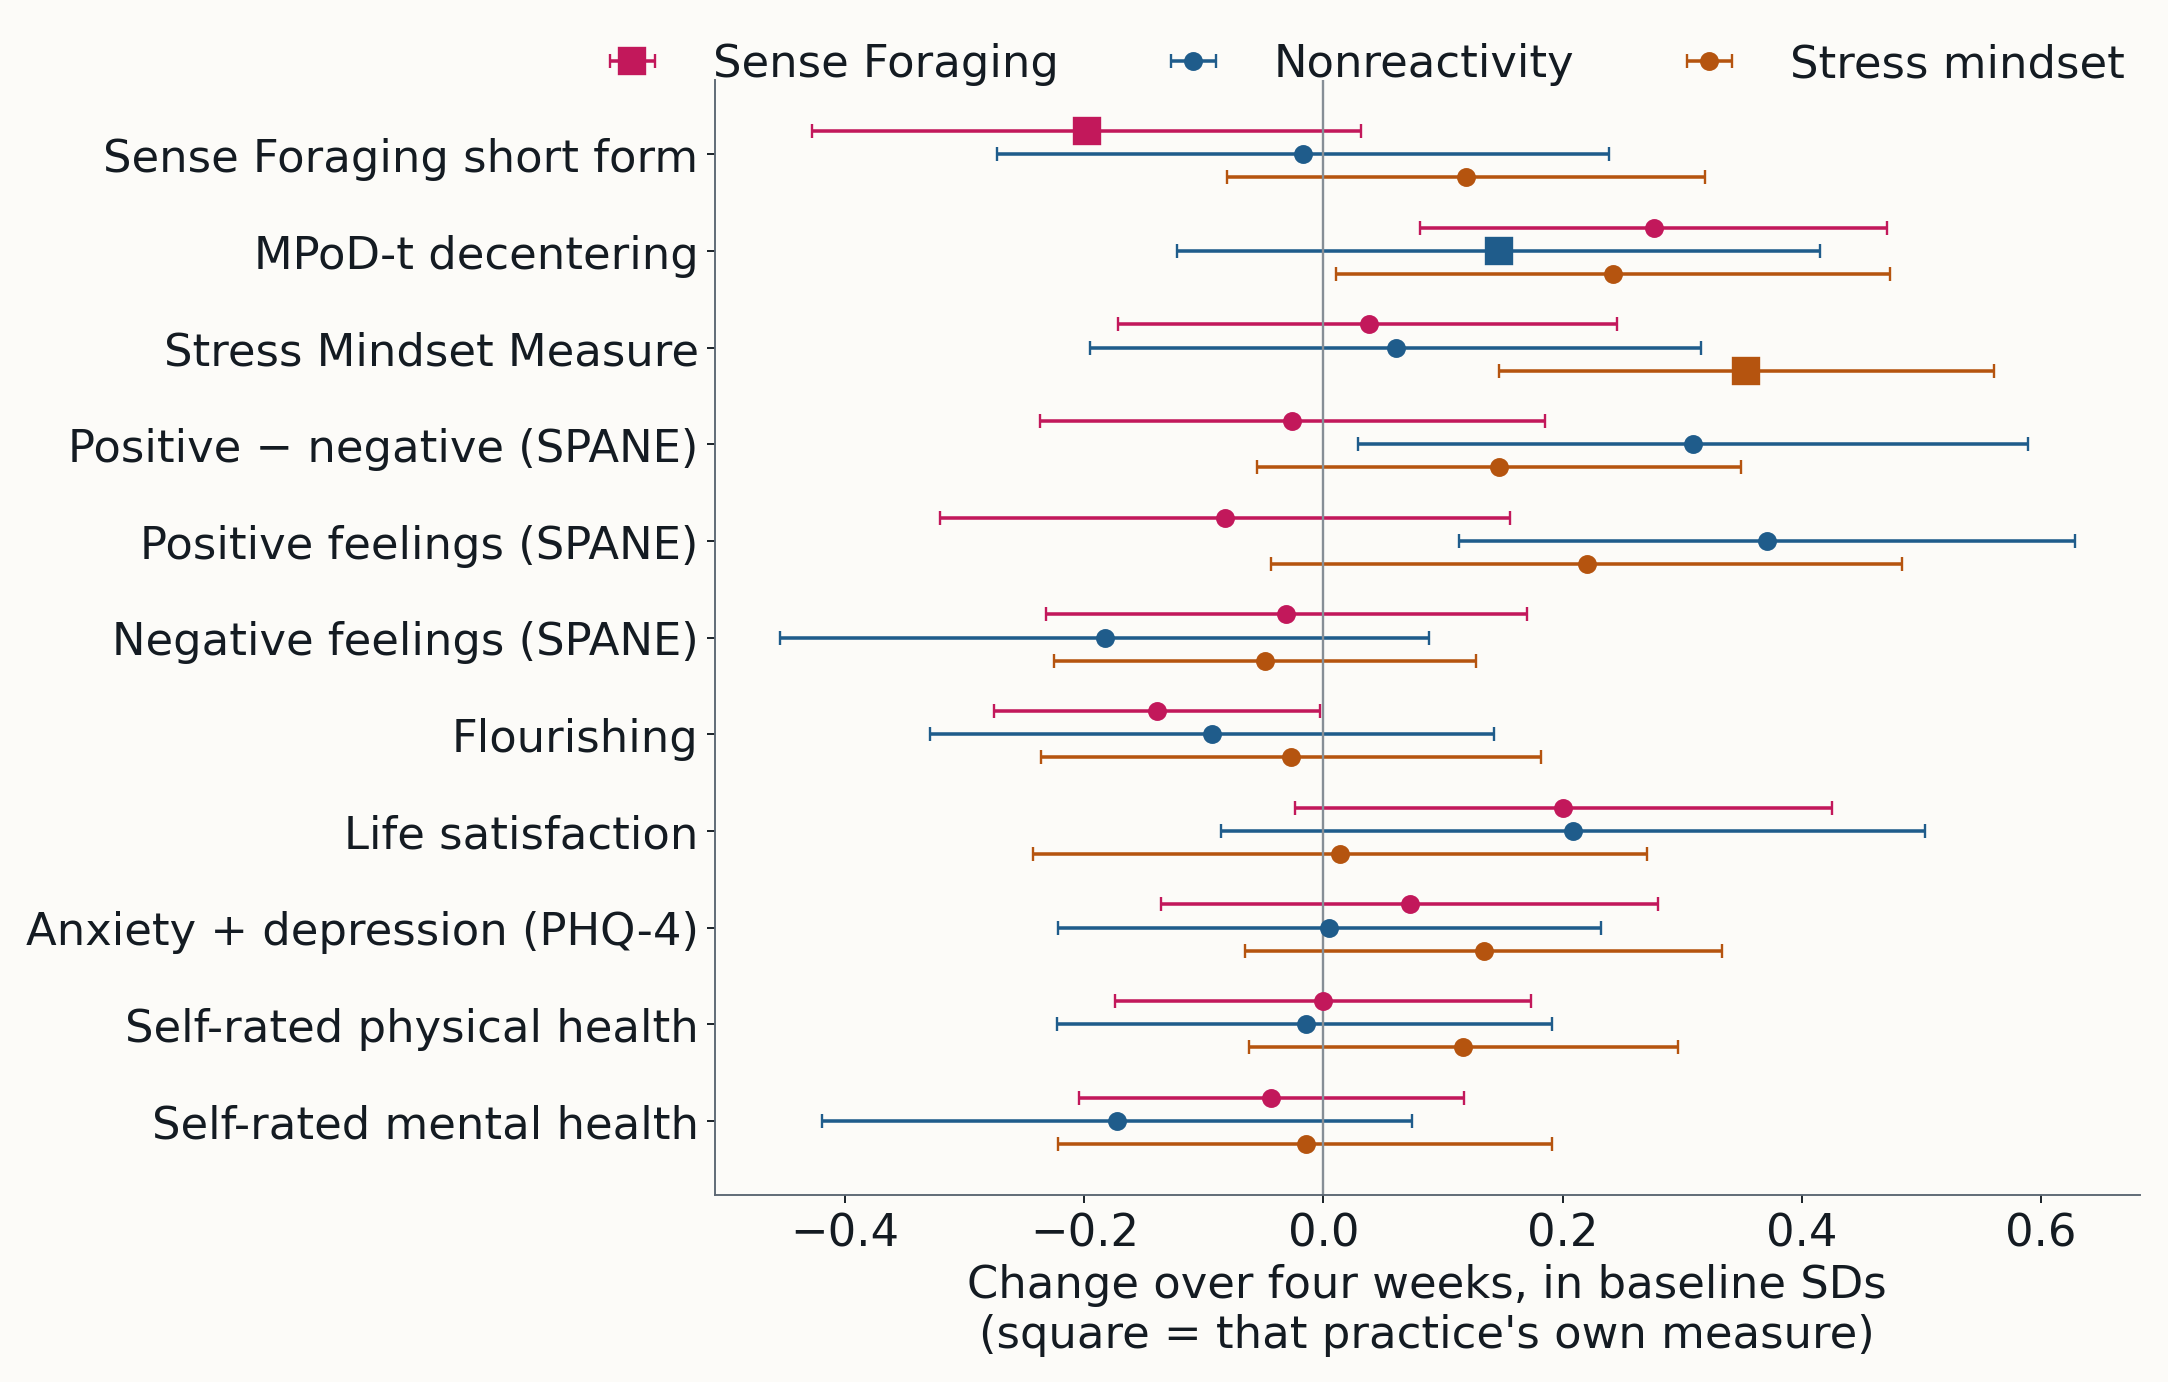
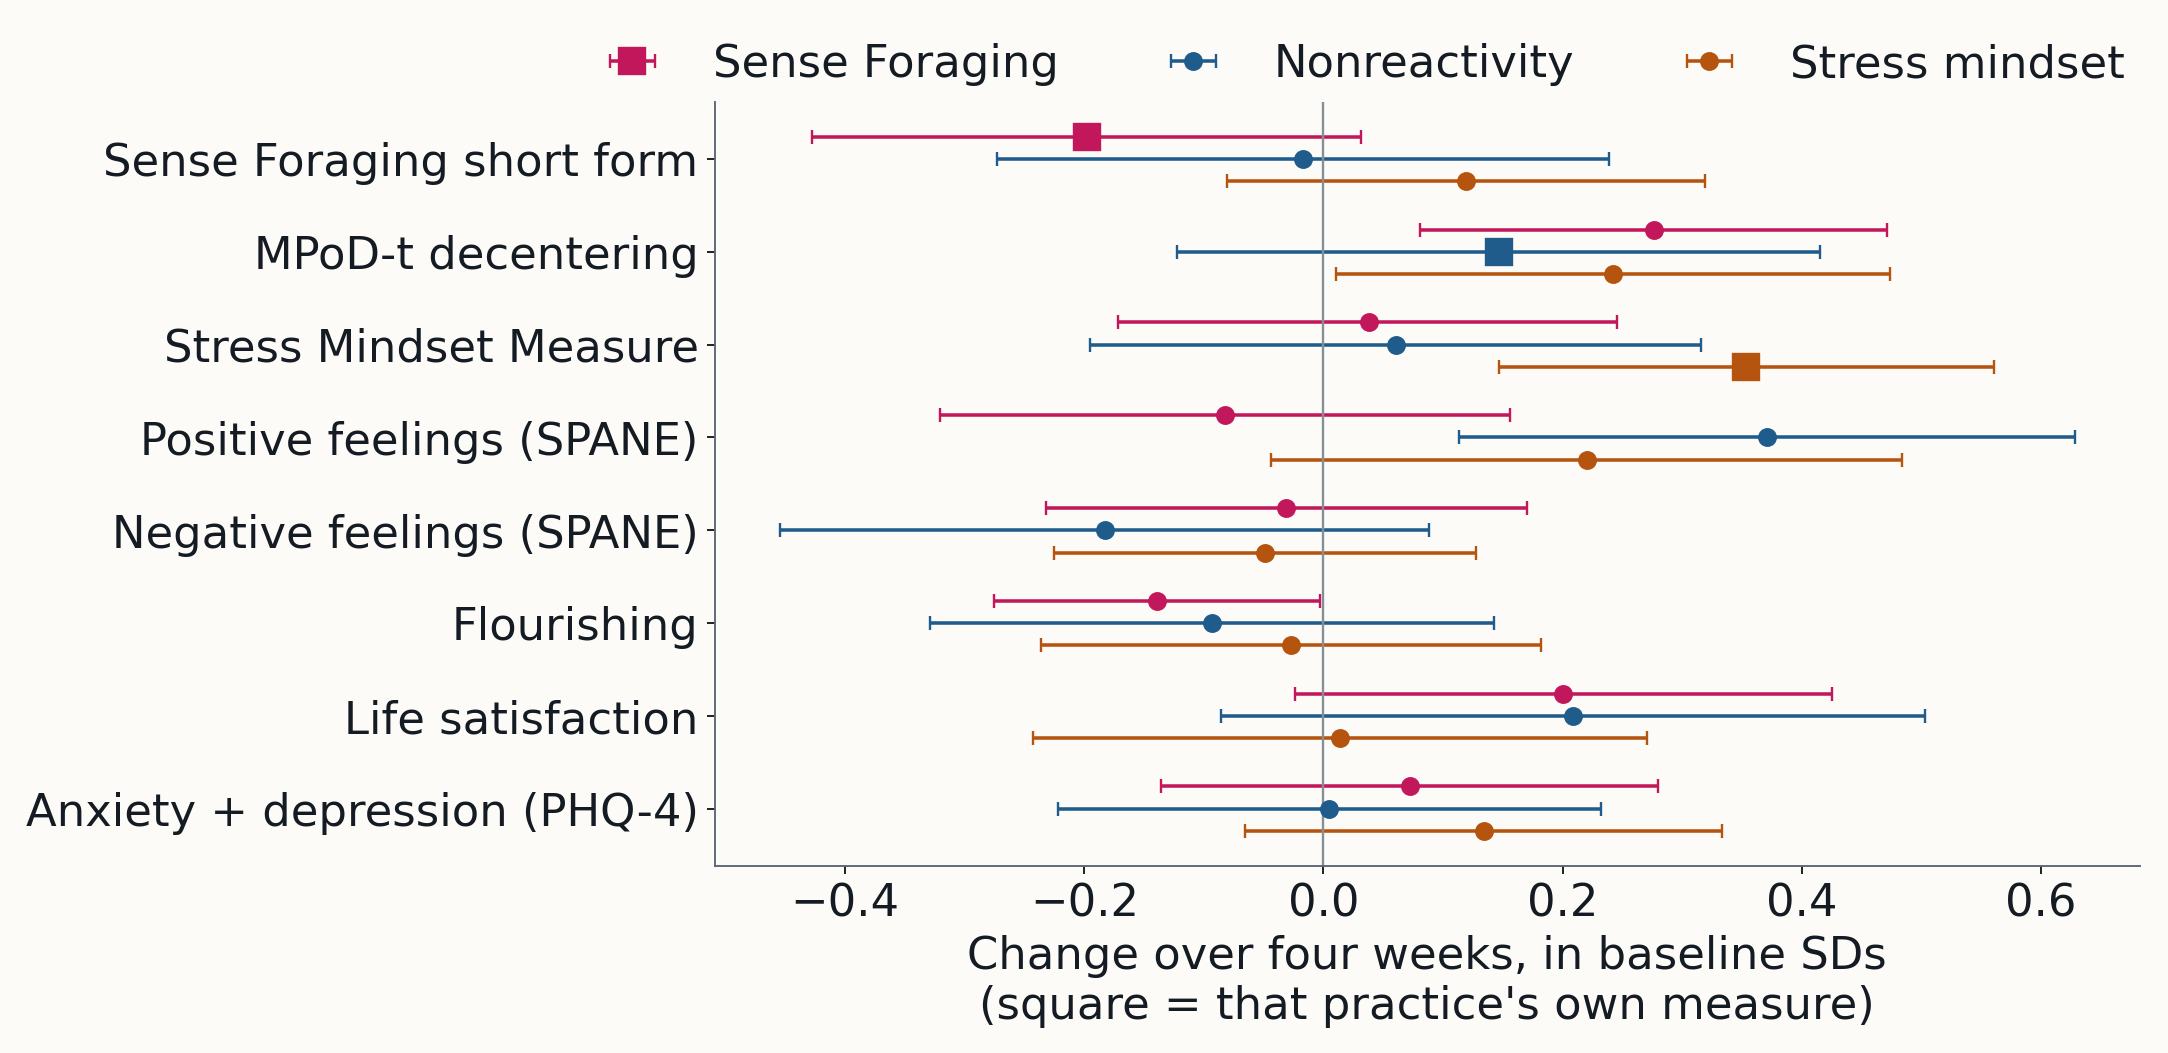
fix(psy240): L10 slide 37 chart drops SPANE balance and self-rated health
Eight questionnaires instead of eleven; the three dropped rows are named in the
speaker notes and stay in the 42-comparisons slide.

Claude-Session: https://claude.ai/code/session_01TZMzpcrvz5wvTRqgJ1sfDw

diff --git a/public/psy240/L10.html b/public/psy240/L10.html
@@ -529,9 +529,9 @@
 <section class="tight wide">
   <p class="kicker">Result 4 · before and after</p>
   <h1>Each practice, on every questionnaire</h1>
-  <img class="fig" src="./assets/trial/change_by_measure.png" alt="Change after four weeks on eleven questionnaires, in baseline standard deviations, by practice with 95% intervals; squares mark each practice's own questionnaire" style="max-height:56vh">
-  <p class="hidden-until small">Most intervals cross zero. Nonreactivity gained most in positive feelings (+0.37 SD). Nobody's anxiety, depression or self-rated health changed.</p>
-  <aside class="notes"><p>Changes are in baseline standard deviations so the scales can share an axis. The intervals are 95%; the plan reports estimates, not significance tests. Nonreactivity versus Sense Foraging on positive feelings: 1.9 points [0.45, 3.40] on the SPANE positive scale.</p></aside>
+  <img class="fig" src="./assets/trial/change_by_measure.png" alt="Change after four weeks on eight questionnaires, in baseline standard deviations, by practice with 95% intervals; squares mark each practice's own questionnaire" style="max-height:56vh">
+  <p class="hidden-until small">Most intervals cross zero. Nonreactivity gained most in positive feelings (+0.37 SD). Nobody's anxiety or depression changed.</p>
+  <aside class="notes"><p>Changes are in baseline standard deviations so the scales can share an axis. The intervals are 95%; the plan reports estimates, not significance tests. Nonreactivity versus Sense Foraging on positive feelings: 1.9 points [0.45, 3.40] on the SPANE positive scale.</p><p>Left off this chart for space, and in the full results: positive-minus-negative balance (Nonreactivity +0.31 SD [0.03, 0.59], the others' intervals cross zero) and self-rated physical and mental health (no change in any group).</p></aside>
 </section>
 
 <section class="tight wide">
